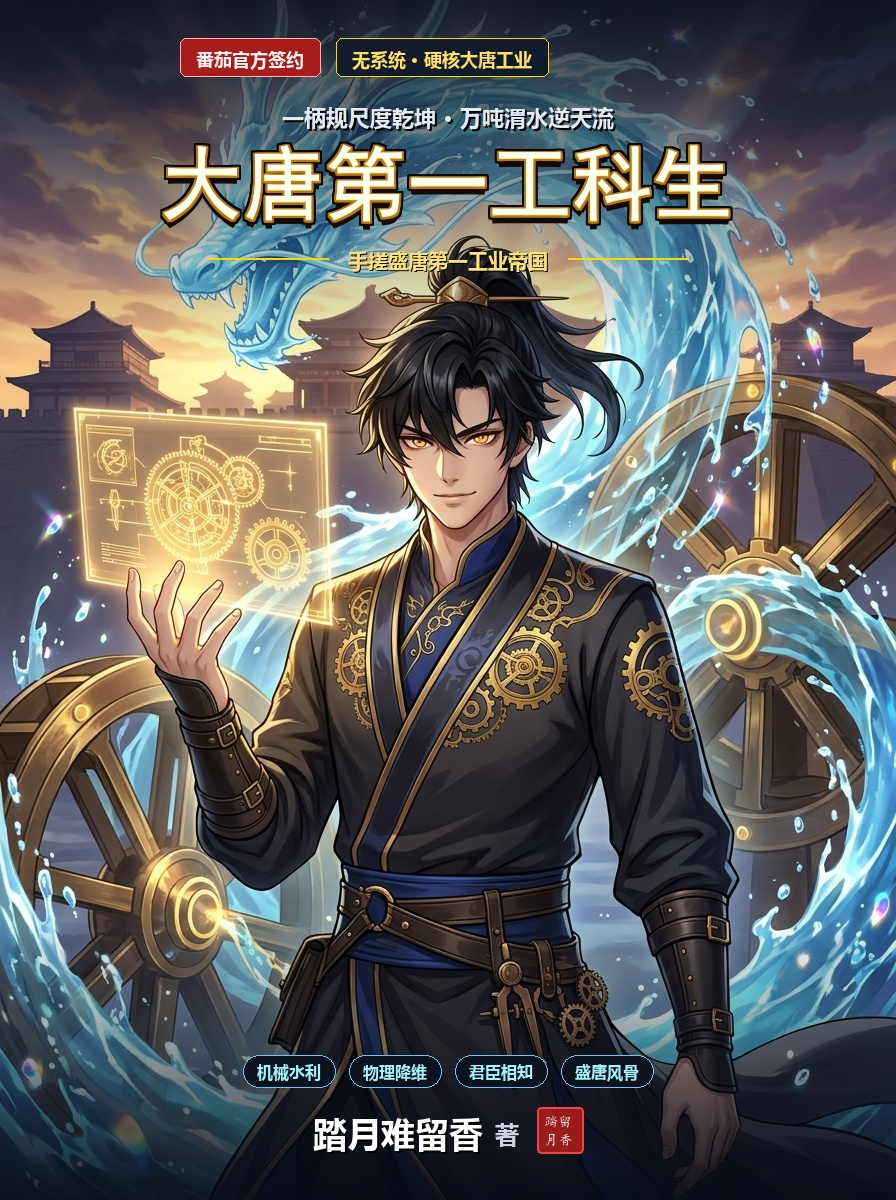
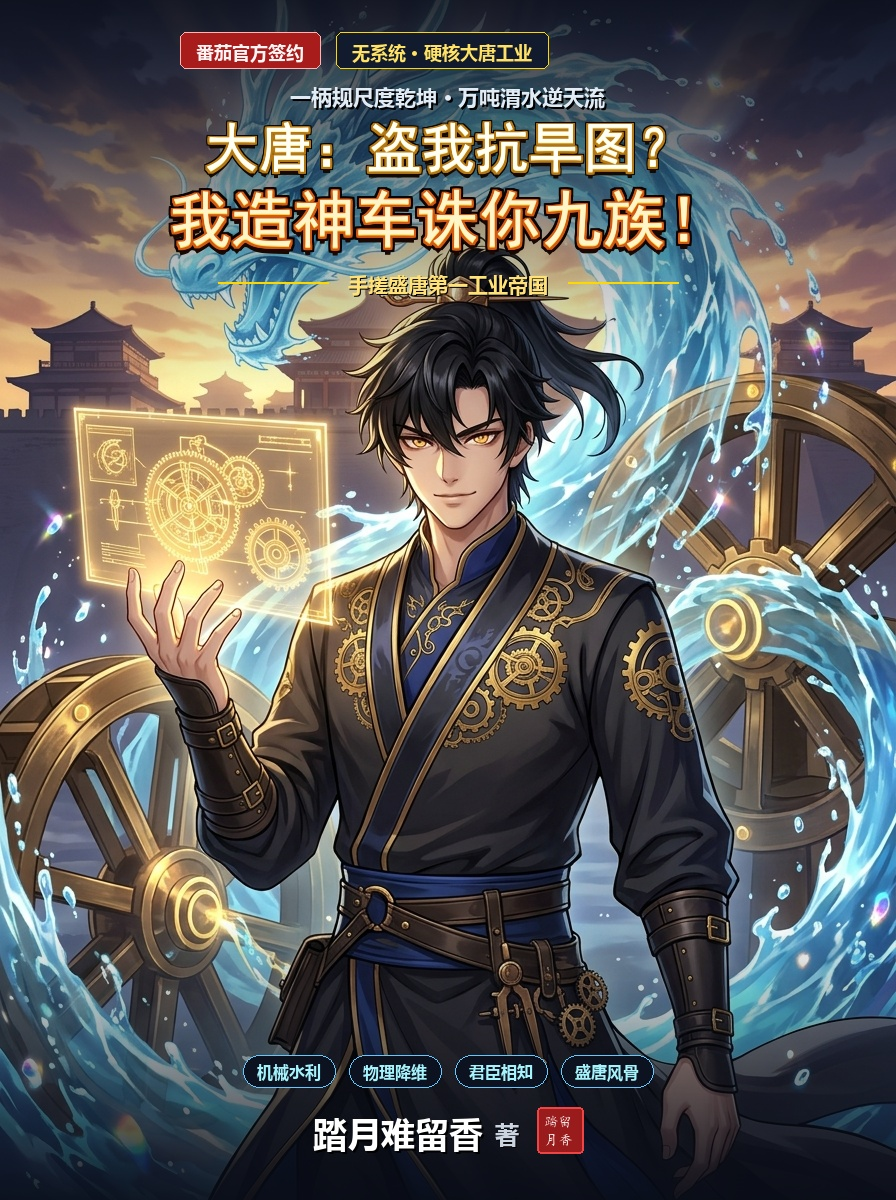
feat: 全域统一重命名为《大唐：盗我抗旱图？我造神车诛你九族！》并重绘官方精装封面

Changed region(s): [[0.1562, 0.0, 0.8125, 0.2467]]

diff --git a/scripts/render_cover_typography.py b/scripts/render_cover_typography.py
@@ -1,6 +1,6 @@
 import os
 import operator
-from PIL import Image, ImageDraw, ImageFont, ImageFilter
+from PIL import Image, ImageDraw, ImageFont
 
 mul = operator.mul
 
@@ -10,7 +10,7 @@ def create_gradient_mask(width, height, start_alpha, end_alpha, is_vertical=True
     if is_vertical:
         for y in range(height):
             ratio = y / float(height) if height > 0 else 0
-            alpha = int(start_alpha + ratio * (end_alpha - start_alpha) if False else start_alpha + mul(ratio, (end_alpha - start_alpha)))
+            alpha = int(start_alpha + mul(ratio, (end_alpha - start_alpha)))
             draw.line([(0, y), (width, y)], fill=max(0, min(255, alpha)))
     return mask
 
@@ -24,8 +24,8 @@ def main():
     w, h = img.size
     
     # 1. 顶部与底部半透明渐变暗场，确保文字绝对清晰
-    top_overlay_h = 360
-    top_mask = create_gradient_mask(w, top_overlay_h, 215, 0)
+    top_overlay_h = 390
+    top_mask = create_gradient_mask(w, top_overlay_h, 220, 0)
     top_dark = Image.new("RGBA", (w, top_overlay_h), (8, 12, 22, 255))
     img.paste(top_dark, (0, 0), top_mask)
     
@@ -43,8 +43,9 @@ def main():
     if not os.path.exists(font_kaiti):
         font_kaiti = r"C:\Windows\Fonts\simkai.ttf"
         
-    font_title = ImageFont.truetype(font_hei, 82)
-    font_slogan = ImageFont.truetype(font_yahei, 22)
+    font_title_line1 = ImageFont.truetype(font_hei, 54)
+    font_title_line2 = ImageFont.truetype(font_hei, 62)
+    font_slogan = ImageFont.truetype(font_yahei, 21)
     font_tagline = ImageFont.truetype(font_yahei, 20)
     font_badge = ImageFont.truetype(font_yahei, 18)
     font_author_name = ImageFont.truetype(font_yahei, 34)
@@ -57,66 +58,78 @@ def main():
     b1_text = "番茄官方签约"
     b1_bbox = font_badge.getbbox(b1_text)
     b1_w = b1_bbox[2] - b1_bbox[0] + 32
-    b1_h = 38
+    b1_h = 36
     b1_x = 180
-    b1_y = 38
+    b1_y = 32
     draw.rounded_rectangle([b1_x, b1_y, b1_x + b1_w, b1_y + b1_h], radius=6, fill=(168, 28, 28, 230), outline=(255, 180, 180, 200), width=1)
-    draw.text((b1_x + 16, b1_y + 8), b1_text, font=font_badge, fill=(255, 245, 245))
+    draw.text((b1_x + 16, b1_y + 7), b1_text, font=font_badge, fill=(255, 245, 245))
     
     # 徽章2：无系统 · 硬核大唐工业
     b2_text = "无系统 · 硬核大唐工业"
     b2_bbox = font_badge.getbbox(b2_text)
     b2_w = b2_bbox[2] - b2_bbox[0] + 32
-    b2_h = 38
+    b2_h = 36
     b2_x = b1_x + b1_w + 16
-    b2_y = 38
+    b2_y = 32
     draw.rounded_rectangle([b2_x, b2_y, b2_x + b2_w, b2_y + b2_h], radius=6, fill=(18, 26, 46, 230), outline=(255, 215, 0, 180), width=1)
-    draw.text((b2_x + 16, b2_y + 8), b2_text, font=font_badge, fill=(255, 225, 100))
+    draw.text((b2_x + 16, b2_y + 7), b2_text, font=font_badge, fill=(255, 225, 100))
     
     # 3. 副标宣法语
     slogan_text = "一柄规尺度乾坤 · 万吨渭水逆天流"
     s_bbox = font_slogan.getbbox(slogan_text)
     s_w = s_bbox[2] - s_bbox[0]
     s_x = int((w - s_w) / 2)
-    s_y = 102
-    # 阴影
+    s_y = 82
     draw.text((s_x + 2, s_y + 2), slogan_text, font=font_slogan, fill=(0, 0, 0, 220))
     draw.text((s_x, s_y), slogan_text, font=font_slogan, fill=(225, 235, 245))
     
-    # 4. 核心主书名《大唐第一工科生》
-    title_text = "大唐第一工科生"
-    t_bbox = font_title.getbbox(title_text)
-    t_w = t_bbox[2] - t_bbox[0]
-    t_x = int((w - t_w) / 2)
-    t_y = 142
+    # 4. 核心主书名（分两行排版，极其醒目霸气）
+    # 第一行：大唐：盗我抗旱图？
+    t1_text = "大唐：盗我抗旱图？"
+    t1_bbox = font_title_line1.getbbox(t1_text)
+    t1_w = t1_bbox[2] - t1_bbox[0]
+    t1_x = int((w - t1_w) / 2)
+    t1_y = 120
     
-    # 厚重立体阴影 (8个方向扩散)
+    for dx in range(-3, 4):
+        for dy in range(-3, 4):
+            if abs(dx) + abs(dy) > 0:
+                draw.text((t1_x + dx, t1_y + dy), t1_text, font=font_title_line1, fill=(10, 5, 0, 255))
+    for dy in range(1, 7):
+        draw.text((t1_x, t1_y + dy), t1_text, font=font_title_line1, fill=(20, 10, 2, 255))
+    for dx in range(-2, 3):
+        for dy in range(-2, 3):
+            draw.text((t1_x + dx, t1_y + dy), t1_text, font=font_title_line1, fill=(180, 120, 20, 255))
+    draw.text((t1_x, t1_y), t1_text, font=font_title_line1, fill=(255, 242, 170, 255))
+    draw.text((t1_x, t1_y - 1), t1_text, font=font_title_line1, fill=(255, 255, 245, 180))
+    
+    # 第二行：我造神车诛你九族！
+    t2_text = "我造神车诛你九族！"
+    t2_bbox = font_title_line2.getbbox(t2_text)
+    t2_w = t2_bbox[2] - t2_bbox[0]
+    t2_x = int((w - t2_w) / 2)
+    t2_y = 188
+    
     for dx in range(-4, 5):
         for dy in range(-4, 5):
             if abs(dx) + abs(dy) > 0:
-                draw.text((t_x + dx, t_y + dy), title_text, font=font_title, fill=(10, 5, 0, 255))
-    for dy in range(1, 9):
-        draw.text((t_x, t_y + dy), title_text, font=font_title, fill=(20, 10, 2, 255))
-        
-    # 金色描边
+                draw.text((t2_x + dx, t2_y + dy), t2_text, font=font_title_line2, fill=(12, 4, 0, 255))
+    for dy in range(1, 8):
+        draw.text((t2_x, t2_y + dy), t2_text, font=font_title_line2, fill=(25, 8, 2, 255))
     for dx in range(-2, 3):
         for dy in range(-2, 3):
-            draw.text((t_x + dx, t_y + dy), title_text, font=font_title, fill=(180, 120, 20, 255))
-            
-    # 正文金黄填色
-    draw.text((t_x, t_y), title_text, font=font_title, fill=(255, 238, 140, 255))
-    # 上半截高光
-    draw.text((t_x, t_y - 1), title_text, font=font_title, fill=(255, 255, 240, 180))
+            draw.text((t2_x + dx, t2_y + dy), t2_text, font=font_title_line2, fill=(210, 90, 20, 255))
+    draw.text((t2_x, t2_y), t2_text, font=font_title_line2, fill=(255, 215, 60, 255))
+    draw.text((t2_x, t2_y - 1), t2_text, font=font_title_line2, fill=(255, 245, 200, 200))
     
     # 5. 书名下方装饰金线与标签
     tag_sub = "手搓盛唐第一工业帝国"
     ts_bbox = font_tagline.getbbox(tag_sub)
     ts_w = ts_bbox[2] - ts_bbox[0]
     ts_x = int((w - ts_w) / 2)
-    ts_y = 246
+    ts_y = 270
     
-    # 装饰线
-    line_w = 120
+    line_w = 110
     draw.line([(ts_x - line_w - 20, ts_y + 12), (ts_x - 20, ts_y + 12)], fill=(255, 215, 0, 180), width=2)
     draw.line([(ts_x + ts_w + 20, ts_y + 12), (ts_x + ts_w + line_w + 20, ts_y + 12)], fill=(255, 215, 0, 180), width=2)
     
@@ -157,28 +170,23 @@ def main():
     start_ax = int((w - total_author_w) / 2)
     author_y = h - 90
     
-    # 绘制作者名
     draw.text((start_ax + 2, author_y + 2), author_name, font=font_author_name, fill=(0, 0, 0, 230))
     draw.text((start_ax, author_y), author_name, font=font_author_name, fill=(255, 255, 255))
     
-    # 绘制“著”字
     sub_x = start_ax + an_w + gap1
     draw.text((sub_x + 1, author_y + 8), author_sub, font=font_author_sub, fill=(0, 0, 0, 200))
     draw.text((sub_x, author_y + 7), author_sub, font=font_author_sub, fill=(203, 213, 225))
     
-    # 绘制朱砂印章
     seal_x = sub_x + as_w + gap2
     seal_y = author_y - 3
     draw.rounded_rectangle([seal_x, seal_y, seal_x + seal_size, seal_y + seal_size], radius=4, fill=(153, 27, 27, 240), outline=(239, 68, 68, 220), width=2)
-    # 印章文字两行：踏留 / 月香
     draw.text((seal_x + 7, seal_y + 5), "踏留", font=font_seal, fill=(254, 242, 242))
     draw.text((seal_x + 7, seal_y + 23), "月香", font=font_seal, fill=(254, 242, 242))
     
-    # 保存结果 (高质量 JPG 与 PNG)
     final_rgb = img.convert("RGB")
     final_rgb.save(output_cover, "JPEG", quality=95)
     img.save(output_png, "PNG")
-    print(f"Success! Saved to {output_cover} and {output_png}")
+    print(f"Success! Updated cover to: {output_cover}")
 
 if __name__ == "__main__":
     main()

diff --git a/02_memories/fanqie_official_master_guide.md b/02_memories/fanqie_official_master_guide.md
@@ -1,7 +1,7 @@
 # 番茄官方长篇爆款创作全景工程手册 (Fanqie Master Bible)
 
 ## 概述
-本手册全面深度整合番茄小说官方作家专区全部二十二篇核心指南与作家课堂干货，彻底转化为全书《大唐第一工科生》（80万字长篇巨著）的底层操作系统、创作工程蓝图与终身品控铁律。
+本手册全面深度整合番茄小说官方作家专区全部二十二篇核心指南与作家课堂干货，彻底转化为全书《大唐：盗我抗旱图？我造神车诛你九族！》（80万字长篇巨著）的底层操作系统、创作工程蓝图与终身品控铁律。
 本手册分为五大核心工程模块，全书每一卷、每一章、每一句话的创作与修改，均严格执行本法典。
 
 ---

diff --git a/01_outlines/book_synopsis.md b/01_outlines/book_synopsis.md
@@ -1,7 +1,7 @@
-# 《大唐第一工科生》官方作品简介 (Book Synopsis)
+# 《大唐：盗我抗旱图？我造神车诛你九族！》官方作品简介 (Book Synopsis)
 
 ## 核心作品信息
-- 书名：《大唐第一工科生》
+- 书名：《大唐：盗我抗旱图？我造神车诛你九族！》
 - 笔名：踏月难留香
 - 题材：历史架空 / 盛唐穿越 / 硬核工科 / 工业种田 / 智谋实利博弈
 - 核心标签：无系统 · 硬核降维 · 基建狂魔 · 君臣相知 · 盛唐风骨

diff --git a/01_outlines/foreshadowing_registry.md b/01_outlines/foreshadowing_registry.md
@@ -1,7 +1,7 @@
 # 全书伏笔登记管理表 (Foreshadowing Registry)
 
 ## 概述
-本表为全书《大唐第一工科生》专属伏笔管理防崩法宝。
+本表为全书《大唐：盗我抗旱图？我造神车诛你九族！》专属伏笔管理防崩法宝。
 依据番茄官方《一张伏笔表全搞定》与《长篇防崩指南》，全书所有悬念、道具、人设伏笔严格登记在案，杜绝遗忘，实行【闭环加拔高】回收。
 
 ---

diff --git a/01_outlines/long_form_master_table.md b/01_outlines/long_form_master_table.md
@@ -1,7 +1,7 @@
 # 全书宏观长篇总表 (Long-Form Master Story Table)
 
 ## 规划全书总览
-- 书名：《大唐第一工科生》
+- 书名：《大唐：盗我抗旱图？我造神车诛你九族！》
 - 目标体量：80万字（约365章）
 - 题材底盘：大唐贞观初年历史穿越、工科硬核降维、朝堂与世家实利博弈、君臣相知、盛唐家国情怀
 
